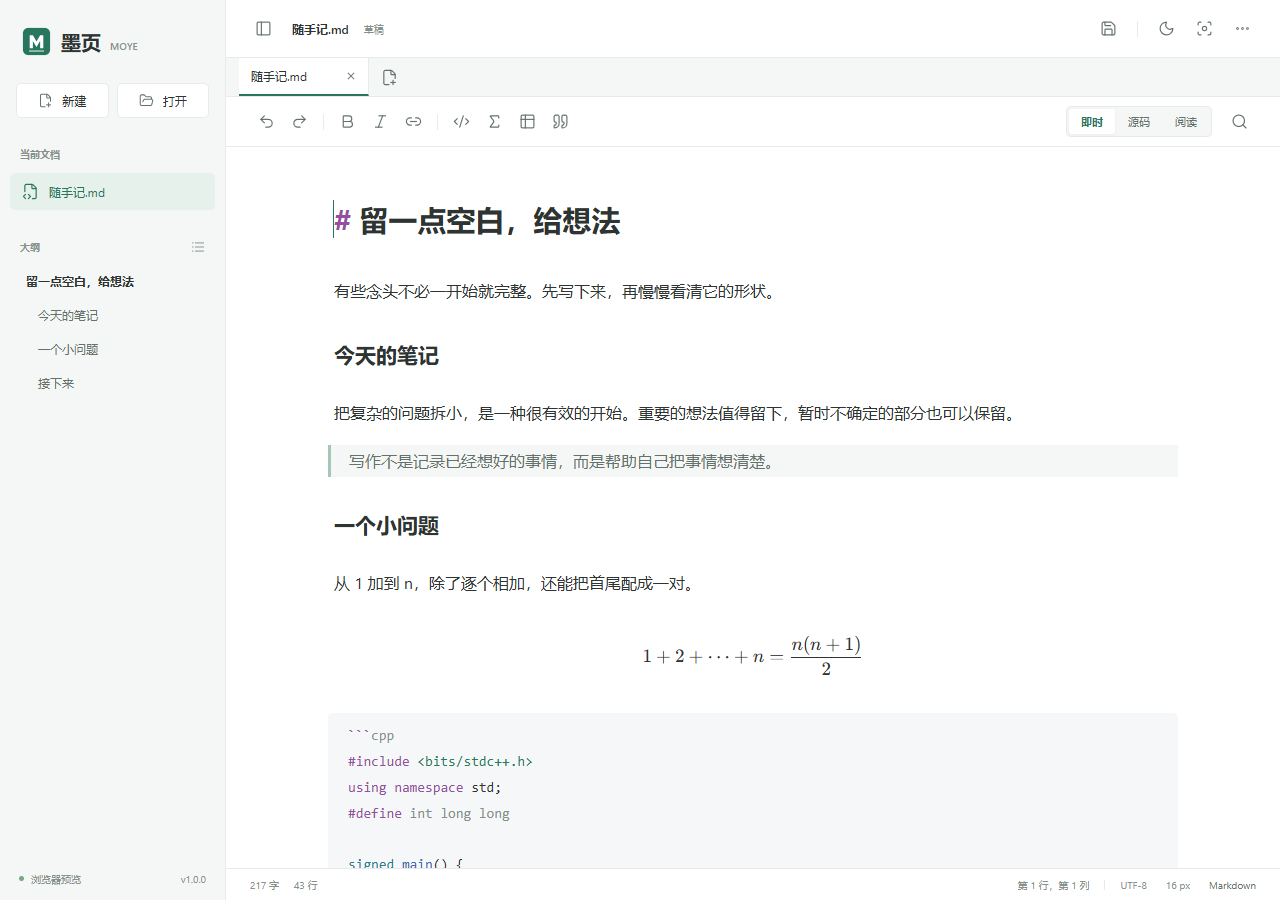
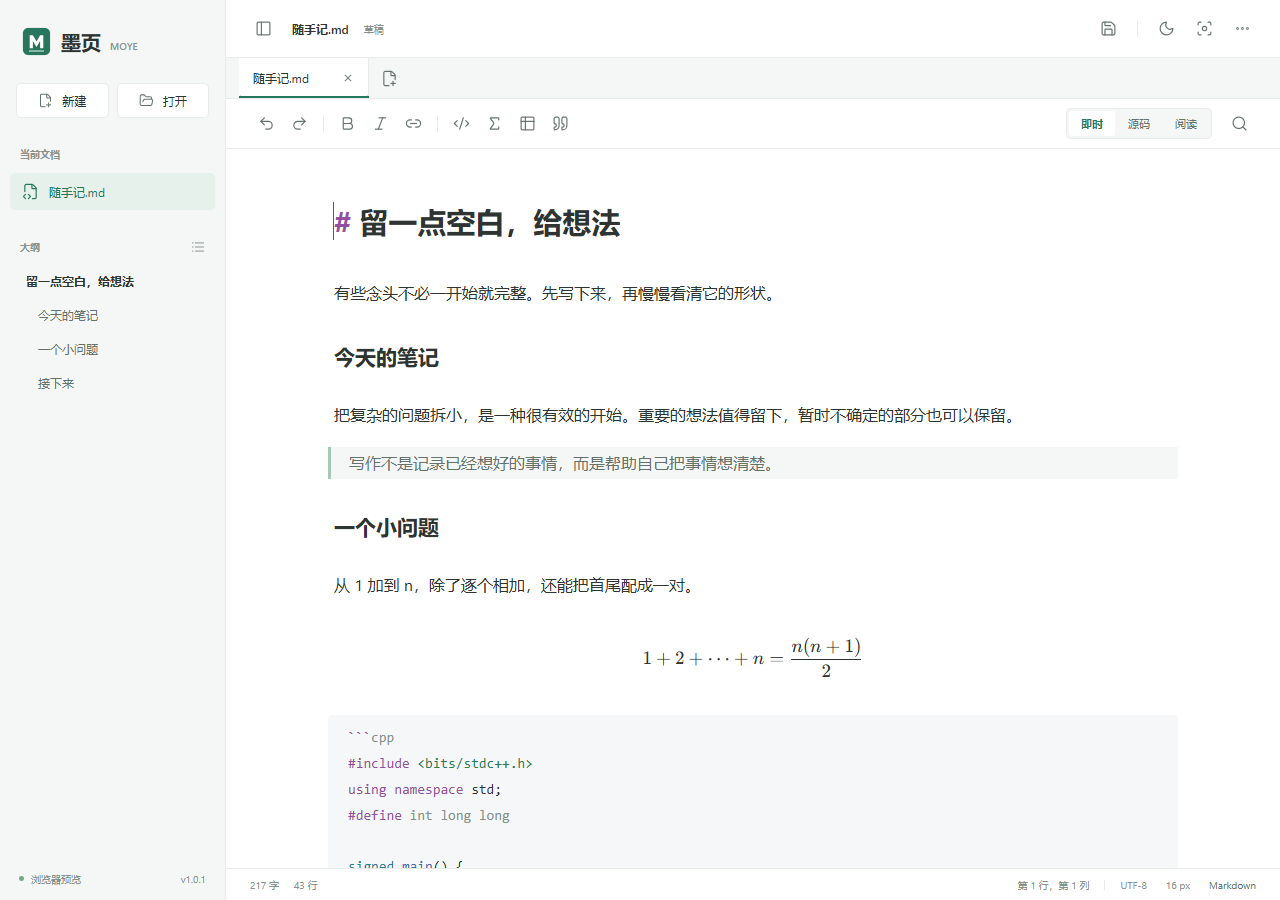
Polish document tabs with smooth accessible transitions in v1.0.1

diff --git a/src/main.ts b/src/main.ts
@@ -70,6 +70,17 @@ let transitionPending = false;
 interface CachedDocument { document: DocumentData; state: EditorState; mode: EditorMode; scroll: number }
 const documents = new Map<string, CachedDocument>();
 let renderedTabsKey = '';
+const tabElements = new Map<string, HTMLElement>();
+const tabsContainer = document.querySelector<HTMLElement>('#tabs')!;
+const tabIndicator = document.createElement('span');
+tabIndicator.className = 'tab-indicator';
+tabIndicator.setAttribute('aria-hidden', 'true');
+tabsContainer.append(tabIndicator);
+const reducedMotion = matchMedia('(prefers-reduced-motion: reduce)');
+let surfaceAnimation: Animation | undefined;
+reducedMotion.addEventListener('change', () => { if (reducedMotion.matches) surfaceAnimation?.cancel(); });
+new ResizeObserver(() => positionTabIndicator()).observe(tabsContainer);
+void document.fonts.ready.then(() => positionTabIndicator());
 let outlineTimer: ReturnType<typeof setTimeout>;
 let persistTimer: ReturnType<typeof setTimeout>;
 let toastTimer: ReturnType<typeof setTimeout>;
@@ -123,33 +134,58 @@ function renderTabs() {
   const key = JSON.stringify([activeId, tabs.map(tab => [tab.id, tab.name, tab.path, tab.dirty])]);
   if (key === renderedTabsKey) return;
   renderedTabsKey = key;
-  const container = document.querySelector('#tabs')!;
-  container.replaceChildren();
-  for (const tab of tabs) {
-    const item = document.createElement('div');
-    item.className = `document-tab${tab.id === activeId ? ' active' : ''}${tab.dirty ? ' dirty' : ''}`;
-    const button = document.createElement('button');
-    button.className = 'tab-select'; button.setAttribute('role', 'tab'); button.setAttribute('aria-selected', String(tab.id === activeId));
-    button.setAttribute('aria-controls', 'surface');
-    button.textContent = tab.name; button.title = tab.path || tab.name;
-    button.tabIndex = tab.id === activeId ? 0 : -1;
-    button.addEventListener('click', () => { if (tab.id !== activeId) nativeAction('activate', { targetId: tab.id }); });
-    button.addEventListener('keydown', event => {
-      if (!['ArrowLeft', 'ArrowRight', 'Home', 'End'].includes(event.key)) return;
-      event.preventDefault();
-      const index = tabs.findIndex(item => item.id === tab.id);
-      const next = event.key === 'Home' ? 0 : event.key === 'End' ? tabs.length - 1 : (index + (event.key === 'ArrowRight' ? 1 : -1) + tabs.length) % tabs.length;
-      nativeAction('activate', { targetId: tabs[next].id });
-    });
-    const dot = document.createElement('span'); dot.className = 'tab-dirty'; dot.setAttribute('aria-label', '未保存');
-    const close = document.createElement('button');
-    close.className = 'tab-close icon-button'; close.setAttribute('aria-label', `关闭 ${tab.name}`); close.title = `关闭 ${tab.name}`;
-    close.innerHTML = icon('x');
-    close.addEventListener('click', () => nativeAction('closeTab', { targetId: tab.id }));
-    item.append(button, dot, close); container.append(item);
+  for (const [id, item] of tabElements) {
+    if (!tabs.some(tab => tab.id === id)) { item.remove(); tabElements.delete(id); }
   }
-  createIcons({ icons: { X }, root: container, attrs: { 'stroke-width': 1.65 } });
-  container.querySelector('[aria-selected="true"]')?.scrollIntoView({ block: 'nearest', inline: 'nearest' });
+  for (const tab of tabs) {
+    let item = tabElements.get(tab.id);
+    if (!item) {
+      item = document.createElement('div');
+      const button = document.createElement('button');
+      button.className = 'tab-select'; button.setAttribute('role', 'tab');
+      button.setAttribute('aria-controls', 'surface');
+      button.addEventListener('click', () => { if (tab.id !== activeId) nativeAction('activate', { targetId: tab.id }); });
+      button.addEventListener('keydown', event => {
+        if (!['ArrowLeft', 'ArrowRight', 'Home', 'End'].includes(event.key)) return;
+        event.preventDefault();
+        const index = tabs.findIndex(item => item.id === tab.id);
+        const next = event.key === 'Home' ? 0 : event.key === 'End' ? tabs.length - 1 : (index + (event.key === 'ArrowRight' ? 1 : -1) + tabs.length) % tabs.length;
+        nativeAction('activate', { targetId: tabs[next].id });
+      });
+      const dot = document.createElement('span'); dot.className = 'tab-dirty'; dot.setAttribute('aria-label', '未保存');
+      const close = document.createElement('button'); close.className = 'tab-close icon-button';
+      close.innerHTML = icon('x');
+      close.addEventListener('click', () => nativeAction('closeTab', { targetId: tab.id }));
+      item.append(button, dot, close);
+      tabsContainer.insertBefore(item, tabIndicator);
+      tabElements.set(tab.id, item);
+      createIcons({ icons: { X }, root: item, attrs: { 'stroke-width': 1.65 } });
+    }
+    item.className = `document-tab${tab.id === activeId ? ' active' : ''}${tab.dirty ? ' dirty' : ''}`;
+    const button = item.querySelector<HTMLButtonElement>('.tab-select')!;
+    button.setAttribute('aria-selected', String(tab.id === activeId));
+    button.setAttribute('aria-description', tab.path || tab.name);
+    button.textContent = tab.name;
+    button.tabIndex = tab.id === activeId ? 0 : -1;
+    item.querySelector('.tab-close')!.setAttribute('aria-label', `关闭 ${tab.name}`);
+  }
+  positionTabIndicator();
+  tabsContainer.querySelector('[aria-selected="true"]')?.scrollIntoView({ block: 'nearest', inline: 'nearest', behavior: reducedMotion.matches ? 'auto' : 'smooth' });
+}
+
+function positionTabIndicator() {
+  const active = tabElements.get(activeId);
+  if (!active) { tabIndicator.style.opacity = '0'; return; }
+  tabIndicator.style.width = `${active.offsetWidth}px`;
+  tabIndicator.style.transform = `translateX(${active.offsetLeft}px)`;
+  tabIndicator.style.opacity = '1';
+  requestAnimationFrame(() => tabIndicator.classList.add('positioned'));
+}
+
+function animateDocumentSwitch() {
+  surfaceAnimation?.cancel();
+  if (reducedMotion.matches) return;
+  surfaceAnimation = document.querySelector('#surface')!.animate([{ opacity: .72 }, { opacity: 1 }], { duration: 120, easing: 'ease-out' });
 }
 
 function updateOutline() {
@@ -186,6 +222,7 @@ function showToast(message: string) {
 }
 
 function setMode(next: EditorMode) {
+  const changed = mode !== next;
   mode = next;
   document.querySelector('#editor')!.toggleAttribute('hidden', next === 'read');
   const reading = document.querySelector<HTMLElement>('#reading-view')!;
@@ -201,6 +238,7 @@ function setMode(next: EditorMode) {
   });
   document.querySelectorAll<HTMLButtonElement>('#format-tools button').forEach((button) => { button.disabled = next === 'read'; });
   document.querySelector('#surface')!.setAttribute('data-mode', next);
+  if (changed) animateDocumentSwitch();
 }
 
 function nativeAction(type: string, payload: Record<string, unknown> = {}) {
@@ -305,6 +343,7 @@ connect((message) => {
   if (handleUpdateMessage(message)) return;
   if (message.type === 'workspace') {
     const doc = message.document;
+    const switchingDocument = Boolean(activeId && activeId !== doc.id);
     clearTimeout(persistTimer);
     if (activeId) send('edit', snapshotCurrent());
     cacheCurrent();
@@ -336,6 +375,7 @@ connect((message) => {
     view.requestMeasure({ read: () => scroll, write: top => { if (mode === 'read') document.querySelector('#reading-view')!.scrollTop = top; else view.scrollDOM.scrollTop = top; } });
     if (message.recovered) showToast('已恢复上次打开的文档和未保存草稿');
     setTransitionPending(false);
+    if (switchingDocument) animateDocumentSwitch();
     if (mode !== 'read') view.focus();
     if (localIsNewer) send('edit', snapshotCurrent());
     void document.fonts.ready.then(() => requestAnimationFrame(() => requestAnimationFrame(() => {

diff --git a/src/style.css b/src/style.css
@@ -72,12 +72,18 @@ svg { width: 17px; height: 17px; flex-shrink: 0; }
 .workspace { min-width: 0; display: flex; flex-direction: column; min-height: 0; }
 .topbar { height: 58px; flex-shrink: 0; display: flex; justify-content: space-between; align-items: center; padding: 0 22px; border-bottom: 1px solid var(--line); gap: 12px; }
 .document-heading, .topbar-actions { display: flex; align-items: center; gap: 7px; min-width: 0; }
-.document-tabs { display: flex; align-items: center; gap: 5px; min-height: 38px; flex-shrink: 0; border-bottom: 1px solid var(--line); padding: 0 13px; background: var(--sidebar); }
-#tabs { display: flex; overflow-x: auto; min-width: 0; scrollbar-width: thin; }
-.document-tab { display: flex; align-items: center; flex: 0 0 auto; height: 38px; min-width: 130px; max-width: 230px; border-right: 1px solid var(--line); border-bottom: 2px solid transparent; padding: 0 6px; gap: 4px; }
-.document-tab.active { background: var(--bg); border-bottom-color: var(--accent); }
-.tab-select { text-align: left; font-size: 12px; flex: 1; padding: 10px 6px; min-width: 0; white-space: nowrap; overflow: hidden; text-overflow: ellipsis; }
-.tab-close.icon-button { width: 23px; height: 23px; }
+.document-tabs { display: flex; align-items: center; gap: 5px; min-height: 40px; flex-shrink: 0; border-bottom: 1px solid var(--line); padding: 0 13px; background: var(--sidebar); }
+#tabs { position: relative; display: flex; overflow-x: auto; overflow-y: hidden; min-width: 0; height: 40px; scrollbar-width: none; }
+#tabs::-webkit-scrollbar { display: none; }
+.document-tab { display: flex; align-items: center; flex: 0 0 auto; height: 40px; min-width: 130px; max-width: 230px; border-right: 1px solid var(--line); padding: 0 9px; gap: 5px; color: var(--soft); transition: background-color 160ms ease, color 160ms ease; }
+.document-tab:hover { background: var(--hover); }
+.document-tab.active { background: var(--bg); color: var(--text); }
+.tab-select { align-self: stretch; text-align: left; font-size: 12px; flex: 1; padding: 0 5px; min-width: 0; white-space: nowrap; overflow: hidden; text-overflow: ellipsis; }
+.tab-select:hover:not(:disabled) { background: transparent; }
+.tab-indicator { position: absolute; left: 0; bottom: 0; height: 2px; background: var(--accent); border-radius: 2px 2px 0 0; pointer-events: none; opacity: 0; }
+.tab-indicator.positioned { transition: transform 180ms cubic-bezier(.2,.7,.3,1), width 180ms cubic-bezier(.2,.7,.3,1), opacity 120ms ease; }
+.tab-close.icon-button { width: 23px; height: 23px; opacity: .55; transition: opacity 140ms ease, background-color 140ms ease, color 140ms ease; }
+.document-tab:hover .tab-close, .document-tab.active .tab-close, .document-tab:focus-within .tab-close { opacity: 1; }
 .tab-close svg { width: 12px; height: 12px; }
 .tab-dirty { height: 5px; width: 5px; flex-shrink: 0; border-radius: 50%; background: var(--accent); visibility: hidden; }
 .dirty .tab-dirty { visibility: visible; }
@@ -92,8 +98,8 @@ svg { width: 17px; height: 17px; flex-shrink: 0; }
 .toolbar { min-height: 50px; display: flex; align-items: center; padding: 7px 25px; gap: 12px; border-bottom: 1px solid var(--line); flex-shrink: 0; }
 .format-tools { display: flex; align-items: center; gap: 2px; flex: 1; }
 .view-switch { display: flex; background: var(--sidebar); border: 1px solid var(--line); border-radius: 5px; padding: 2px; gap: 1px; flex-shrink: 0; }
-.view-switch button { font-size: 11px; padding: 5px 12px; border-radius: 3px; color: var(--soft); }
-.view-switch button.active { background: var(--bg); box-shadow: 0 1px 3px #0000000b; color: var(--accent); font-weight: 600; }
+.view-switch button { font-size: 11px; padding: 5px 12px; border-radius: 3px; color: var(--soft); transition: background-color 150ms ease, color 150ms ease; }
+.view-switch button.active { background: var(--bg); box-shadow: none; color: var(--accent); font-weight: 600; }
 .document-surface { flex: 1; min-height: 0; overflow: hidden; position: relative; }
 #editor { height: 100%; }
 .cm-editor { height: 100%; outline: none !important; }
@@ -188,6 +194,9 @@ svg { width: 17px; height: 17px; flex-shrink: 0; }
 .update-dialog button:not(.icon-button) { padding: 8px 10px; border: 1px solid var(--line); border-radius: 4px; flex-shrink: 0; }
 .update-dialog .primary { background: var(--accent); color: var(--bg); }
 .update-dialog footer { justify-content: flex-end; margin-top: 8px; flex-wrap: wrap; }
+@media (prefers-reduced-motion: reduce) {
+  .document-tab, .tab-indicator.positioned, .tab-close.icon-button, .view-switch button { transition: none; }
+}
 .sidebar-hidden, #app.focus-mode { grid-template-columns: minmax(0,1fr); }
 .sidebar-hidden .sidebar, .focus-mode .sidebar { display: none; }
 .focus-mode .toolbar { display: none; }

diff --git a/tests/tab-motion.spec.ts b/tests/tab-motion.spec.ts
@@ -1,0 +1,42 @@
+import { test, expect } from '@playwright/test';
+
+test('tabs stay mounted and indicator glides without native tooltip boxes', async ({ page }) => {
+  await page.goto('/');
+  await page.getByRole('button', { name: '新建文档', exact: true }).click();
+  await expect(page.getByRole('tab')).toHaveCount(2);
+  await page.evaluate(() => { (window as any).__firstTab = document.querySelector('.tab-select'); });
+  const first = page.getByRole('tab', { name: '随手记.md', exact: true });
+  await first.click();
+  await expect(first).toHaveAttribute('aria-selected', 'true');
+  expect(await page.evaluate(() => (window as any).__firstTab === document.querySelector('.tab-select'))).toBe(true);
+  await expect(first).not.toHaveAttribute('title');
+  await first.hover();
+  expect(await first.evaluate(el => getComputedStyle(el).backgroundColor)).toBe('rgba(0, 0, 0, 0)');
+  const indicator = page.locator('.tab-indicator');
+  await expect.poll(() => indicator.evaluate(el => Math.abs(el.getBoundingClientRect().left - document.querySelector('.document-tab.active')!.getBoundingClientRect().left))).toBeLessThan(1);
+  expect(await indicator.evaluate(el => getComputedStyle(el).transitionProperty)).toContain('transform');
+  expect(await indicator.evaluate(el => getComputedStyle(el).transitionDuration)).toContain('0.18s');
+  const second = page.getByRole('tab', { name: '未命名 1.md', exact: true });
+  await second.click();
+  await expect(second).toHaveAttribute('aria-selected', 'true');
+  await expect.poll(() => indicator.evaluate(el => {
+    const a = el.getBoundingClientRect(), b = document.querySelector('.document-tab.active')!.getBoundingClientRect();
+    return Math.abs(a.left - b.left) + Math.abs(a.width - b.width);
+  })).toBeLessThan(2);
+  await page.screenshot({ path: 'test-results/tabs-v101.png' });
+  await page.setViewportSize({ width: 390, height: 844 });
+  await expect(second).toBeInViewport();
+  expect(await page.evaluate(() => document.documentElement.scrollWidth <= innerWidth)).toBe(true);
+});
+
+test('reduced-motion disables tab and document transitions', async ({ page }) => {
+  await page.emulateMedia({ reducedMotion: 'reduce' });
+  await page.goto('/');
+  await page.getByRole('button', { name: '新建文档', exact: true }).click();
+  await expect(page.getByRole('tab')).toHaveCount(2);
+  const first = page.getByRole('tab', { name: '随手记.md', exact: true });
+  await first.click();
+  await expect(first).toHaveAttribute('aria-selected', 'true');
+  expect(await page.locator('.tab-indicator').evaluate(el => getComputedStyle(el).transitionDuration)).toBe('0s');
+  expect(await page.locator('#surface').evaluate(el => el.getAnimations().length)).toBe(0);
+});

diff --git a/README.md b/README.md
@@ -12,7 +12,7 @@
 [![Build](https://github.com/SakuraEdge/moye-markdown/actions/workflows/build.yml/badge.svg)](https://github.com/SakuraEdge/moye-markdown/actions/workflows/build.yml)
 [![License](https://img.shields.io/badge/license-MIT-4f729a)](LICENSE)
 
-[下载 Windows 版](https://github.com/SakuraEdge/moye-markdown/releases/download/v1.0.0/Moye-Setup-1.0.0-windows-x64.exe) · [下载 macOS 版](https://github.com/SakuraEdge/moye-markdown/releases/download/v1.0.0/Moye-1.0.0-macos-universal.dmg) · [全部版本](https://github.com/SakuraEdge/moye-markdown/releases)
+[下载 Windows 版](https://github.com/SakuraEdge/moye-markdown/releases/download/v1.0.1/Moye-Setup-1.0.1-windows-x64.exe) · [下载 macOS 版](https://github.com/SakuraEdge/moye-markdown/releases/download/v1.0.1/Moye-1.0.1-macos-universal.dmg) · [全部版本](https://github.com/SakuraEdge/moye-markdown/releases)
 
 </div>
 
@@ -40,10 +40,10 @@
 
 | 系统 | 推荐下载 | 其他方式 |
 | --- | --- | --- |
-| Windows 10 / 11，x64 | [安装程序 `.exe`](https://github.com/SakuraEdge/moye-markdown/releases/download/v1.0.0/Moye-Setup-1.0.0-windows-x64.exe) | [便携版 `.zip`](https://github.com/SakuraEdge/moye-markdown/releases/download/v1.0.0/Moye-1.0.0-windows-x64.zip) |
-| macOS 13 Ventura 或更新版本 | [通用版 `.dmg`](https://github.com/SakuraEdge/moye-markdown/releases/download/v1.0.0/Moye-1.0.0-macos-universal.dmg) | [应用包 `.zip`](https://github.com/SakuraEdge/moye-markdown/releases/download/v1.0.0/Moye-1.0.0-macos-universal.zip) |
+| Windows 10 / 11，x64 | [安装程序 `.exe`](https://github.com/SakuraEdge/moye-markdown/releases/download/v1.0.1/Moye-Setup-1.0.1-windows-x64.exe) | [便携版 `.zip`](https://github.com/SakuraEdge/moye-markdown/releases/download/v1.0.1/Moye-1.0.1-windows-x64.zip) |
+| macOS 13 Ventura 或更新版本 | [通用版 `.dmg`](https://github.com/SakuraEdge/moye-markdown/releases/download/v1.0.1/Moye-1.0.1-macos-universal.dmg) | [应用包 `.zip`](https://github.com/SakuraEdge/moye-markdown/releases/download/v1.0.1/Moye-1.0.1-macos-universal.zip) |
 
-macOS 通用版同时包含 **Apple Silicon 与 Intel** 两种架构。校验和见 [SHA256SUMS](https://github.com/SakuraEdge/moye-markdown/releases/download/v1.0.0/SHA256SUMS-v1.0.0.txt)。
+macOS 通用版同时包含 **Apple Silicon 与 Intel** 两种架构。校验和见 [SHA256SUMS](https://github.com/SakuraEdge/moye-markdown/releases/download/v1.0.1/SHA256SUMS-v1.0.1.txt)。
 
 ### Windows
 
@@ -64,6 +64,8 @@ macOS 通用版同时包含 **Apple Silicon 与 Intel** 两种架构。校验和
 - **阅读**：完整预览，包括行内公式、图片和任务列表。
 
 新建、打开文档都会增加一个标签。切换时保留正文、光标、滚动位置和本次运行的撤销记录；关闭未保存文档前会询问。
+
+v1.0.1 优化了标签悬停样式，选中指示条平滑滑动，正文轻量淡入。开启系统“减少动画”后会立即切换。
 
 ### 常用中文命令
 

diff --git a/docs/release-v1.0.1.md b/docs/release-v1.0.1.md
@@ -1,0 +1,13 @@
+# 墨页 Moye v1.0.1
+
+在 v1.0.0 正式发布之后推出的界面优化更新。
+
+- 文档标签使用平整、轻量的悬停样式，移除重复文件名的原生方框提示。
+- 标签切换保留已有界面元素，选中指示条以 180 ms 平滑移动。
+- 正文切换使用 120 ms 轻量淡入；即时、源码、阅读视图的选中状态平滑过渡。
+- 支持系统“减少动画”设置，开启后立即切换。
+- 保留文件名截断、键盘操作、未保存标记、独立撤销和标签关闭确认。
+
+Windows 与 macOS 的安装方式、文件格式和数据目录不变。本次属于补丁更新，v1.0.0 可通过“更多 → 检测更新”发现新版，不会触发大版本弹窗。
+
+下载 Windows 安装版 / 便携版或 macOS 13+ 通用版。当前软件尚未进行 Windows 商业代码签名或 Apple Developer ID 公证；首次启动可能需要系统确认。校验和见附件。

diff --git a/docs/validation.md b/docs/validation.md
@@ -1,5 +1,14 @@
 # 验证记录
 
+## v1.0.1
+
+2026-11-04，在 v1.0.0 发布后单独实施标签界面更新。
+
+- 本地 19 项单元测试、16 项界面测试通过。
+- 新增检查：切换时标签节点保持不变；无重复原生标题提示；悬停按钮本身透明；滑动指示条最终位置和宽度与活动标签一致。
+- 新增检查：窄窗口下活动标签可见；系统减少动画模式下，标签过渡时间为零且正文没有动画。
+- 对原有编辑、模拟 IME、多标签恢复、独立撤销、MD/PDF 菜单和更新提醒进行了完整界面回归。
+
 ## v1.0.0
 
 2026-11-04。Windows 与 macOS 的 GitHub Actions 构建均通过。
